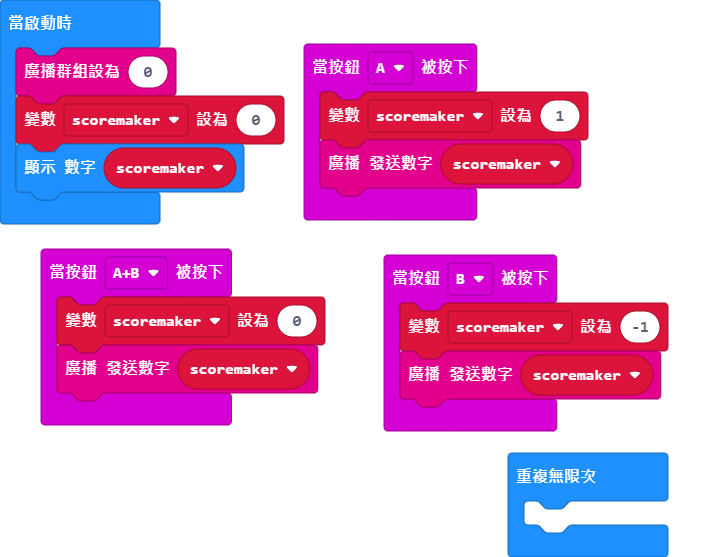
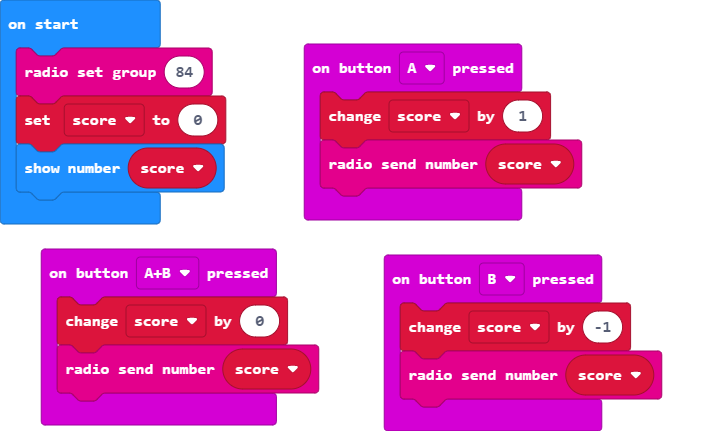
2

diff --git a/main.ts b/main.ts
@@ -1,19 +1,16 @@
 input.onButtonPressed(Button.A, function () {
-    scoremaker = 1
-    radio.sendNumber(scoremaker)
+    score += 1
+    radio.sendNumber(score)
 })
 input.onButtonPressed(Button.AB, function () {
-    scoremaker = 0
-    radio.sendNumber(scoremaker)
+    score += 0
+    radio.sendNumber(score)
 })
 input.onButtonPressed(Button.B, function () {
-    scoremaker = -1
-    radio.sendNumber(scoremaker)
+    score += -1
+    radio.sendNumber(score)
 })
-let scoremaker = 0
-radio.setGroup(0)
-scoremaker = 0
-basic.showNumber(scoremaker)
-basic.forever(function () {
-	
-})
+let score = 0
+radio.setGroup(84)
+score = 0
+basic.showNumber(score)
